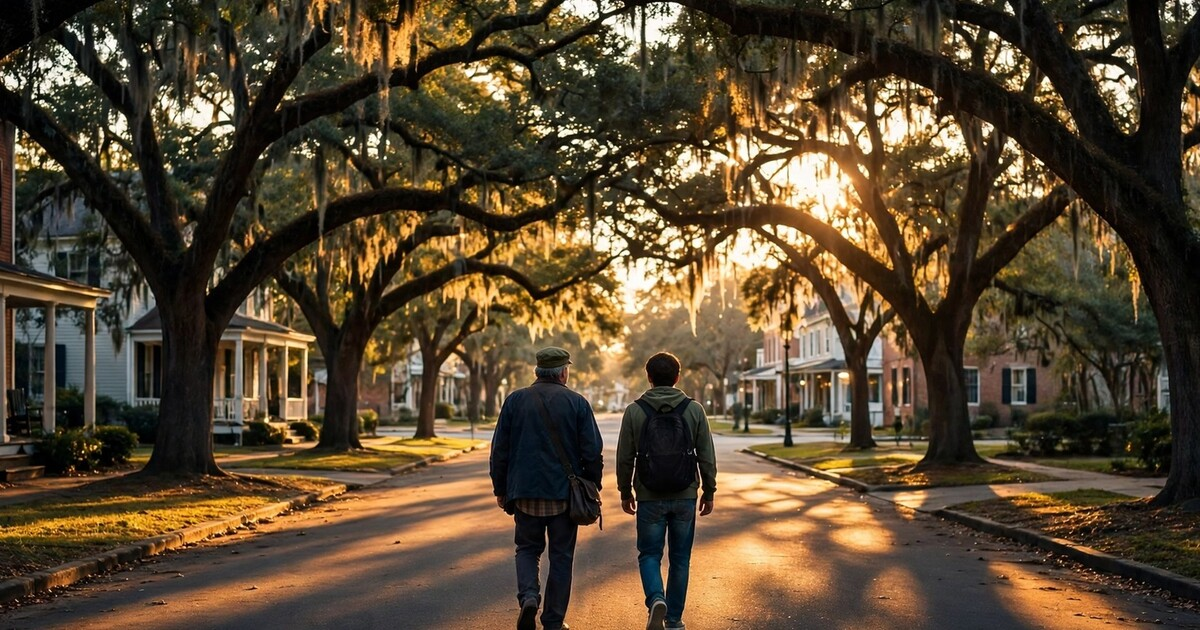
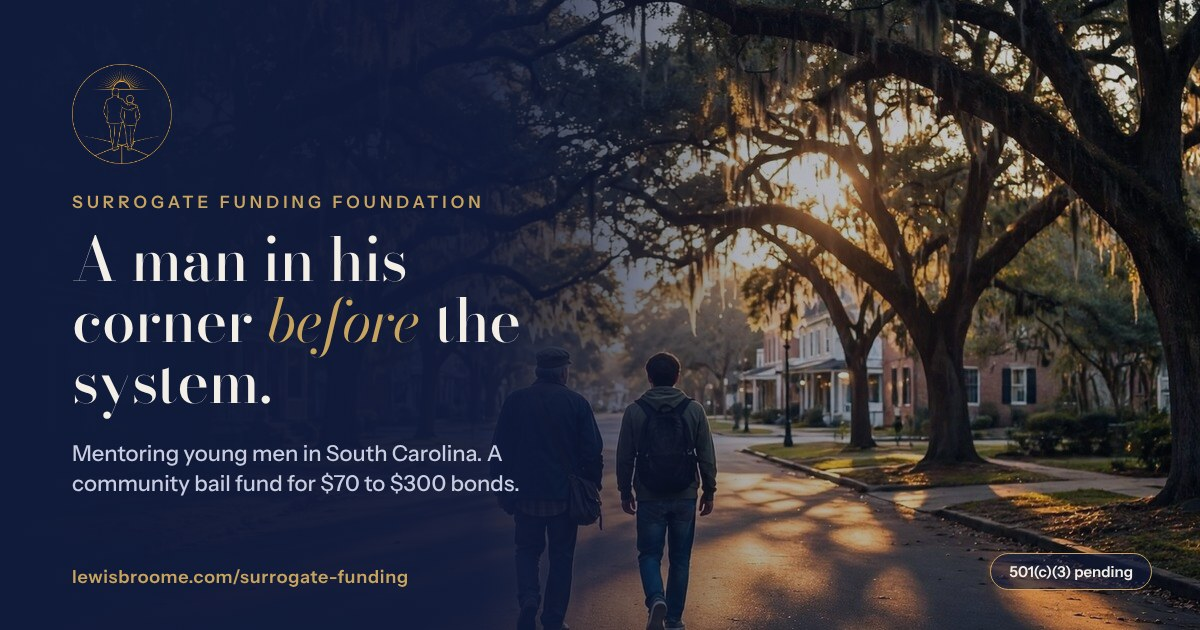
Surrogate Funding: unique 1200x630 share thumbnail per page, full og/twitter image tags, IndexNow key
Claude-Session: https://claude.ai/code/session_015JXEzZA8h7XeBSZWfpUPpu

diff --git a/surrogate-funding/our-story.html b/surrogate-funding/our-story.html
@@ -12,7 +12,15 @@
 <meta property="og:title" content="Wounded in the House of a Friend: Our Founder's Story | Surrogate Funding Foundation">
 <meta property="og:description" content="Lewis Broome came up in the projects, built a house at 21, and learned betrayal the hard way. He started Surrogate Funding so young men learn it from a mentor, not a cell.">
 <meta property="og:url" content="https://www.lewisbroome.com/surrogate-funding/our-story">
-<meta property="og:image" content="https://www.lewisbroome.com/surrogate-funding/og.jpg">
+<meta property="og:image" content="https://www.lewisbroome.com/surrogate-funding/og/our-story.jpg">
+<meta property="og:image:secure_url" content="https://www.lewisbroome.com/surrogate-funding/og/our-story.jpg">
+<meta property="og:image:type" content="image/jpeg">
+<meta property="og:image:width" content="1200">
+<meta property="og:image:height" content="630">
+<meta property="og:image:alt" content="Wounded in the House of a Friend: Our Founder's Story | Surrogate Funding Foundation">
+<meta name="twitter:image" content="https://www.lewisbroome.com/surrogate-funding/og/our-story.jpg">
+<meta name="twitter:title" content="Wounded in the House of a Friend: Our Founder's Story | Surrogate Funding Foundation">
+<meta name="twitter:description" content="Lewis Broome came up in the projects, built a house at 21, and learned betrayal the hard way. He started Surrogate Funding so young men learn it from a mentor, not a cell.">
 <meta name="twitter:card" content="summary_large_image">
 <meta name="claude:viewport-fit-sides" content="cover">
 <link rel="icon" type="image/png" sizes="32x32" href="/surrogate-funding/media/favicon-32.png">

diff --git a/surrogate-funding/bail-fund.html b/surrogate-funding/bail-fund.html
@@ -12,7 +12,15 @@
 <meta property="og:title" content="Community Bail Fund for $70 to $300 Bonds | Surrogate Funding Foundation">
 <meta property="og:description" content="Some people sit in jail for months over a $70 bond. Our community bail fund posts small bonds for people held only because they cannot pay, and refunded bail brings the next person home.">
 <meta property="og:url" content="https://www.lewisbroome.com/surrogate-funding/bail-fund">
-<meta property="og:image" content="https://www.lewisbroome.com/surrogate-funding/og.jpg">
+<meta property="og:image" content="https://www.lewisbroome.com/surrogate-funding/og/bail-fund.jpg">
+<meta property="og:image:secure_url" content="https://www.lewisbroome.com/surrogate-funding/og/bail-fund.jpg">
+<meta property="og:image:type" content="image/jpeg">
+<meta property="og:image:width" content="1200">
+<meta property="og:image:height" content="630">
+<meta property="og:image:alt" content="Community Bail Fund for $70 to $300 Bonds | Surrogate Funding Foundation">
+<meta name="twitter:image" content="https://www.lewisbroome.com/surrogate-funding/og/bail-fund.jpg">
+<meta name="twitter:title" content="Community Bail Fund for $70 to $300 Bonds | Surrogate Funding Foundation">
+<meta name="twitter:description" content="Some people sit in jail for months over a $70 bond. Our community bail fund posts small bonds for people held only because they cannot pay, and refunded bail brings the next person home.">
 <meta name="twitter:card" content="summary_large_image">
 <meta name="claude:viewport-fit-sides" content="cover">
 <link rel="icon" type="image/png" sizes="32x32" href="/surrogate-funding/media/favicon-32.png">

diff --git a/surrogate-funding/request-help.html b/surrogate-funding/request-help.html
@@ -12,7 +12,15 @@
 <meta property="og:title" content="Request Bail Help for a Small Bond | Surrogate Funding Foundation">
 <meta property="og:description" content="Ask Surrogate Funding Foundation for help with a small bond on a non-violent charge. For the person held, or a family member or friend on their behalf. It is free.">
 <meta property="og:url" content="https://www.lewisbroome.com/surrogate-funding/request-help">
-<meta property="og:image" content="https://www.lewisbroome.com/surrogate-funding/og.jpg">
+<meta property="og:image" content="https://www.lewisbroome.com/surrogate-funding/og/request-help.jpg">
+<meta property="og:image:secure_url" content="https://www.lewisbroome.com/surrogate-funding/og/request-help.jpg">
+<meta property="og:image:type" content="image/jpeg">
+<meta property="og:image:width" content="1200">
+<meta property="og:image:height" content="630">
+<meta property="og:image:alt" content="Request Bail Help for a Small Bond | Surrogate Funding Foundation">
+<meta name="twitter:image" content="https://www.lewisbroome.com/surrogate-funding/og/request-help.jpg">
+<meta name="twitter:title" content="Request Bail Help for a Small Bond | Surrogate Funding Foundation">
+<meta name="twitter:description" content="Ask Surrogate Funding Foundation for help with a small bond on a non-violent charge. For the person held, or a family member or friend on their behalf. It is free.">
 <meta name="twitter:card" content="summary_large_image">
 <meta name="claude:viewport-fit-sides" content="cover">
 <link rel="icon" type="image/png" sizes="32x32" href="/surrogate-funding/media/favicon-32.png">

diff --git a/surrogate-funding/programs.html b/surrogate-funding/programs.html
@@ -12,7 +12,15 @@
 <meta property="og:title" content="Crossroads Mentoring Circle and Programs | Surrogate Funding Foundation">
 <meta property="og:description" content="The Crossroads mentoring circle, one-on-one mentors for a year, money and work skills, the community bail fund, and the Loud and Right livestream.">
 <meta property="og:url" content="https://www.lewisbroome.com/surrogate-funding/programs">
-<meta property="og:image" content="https://www.lewisbroome.com/surrogate-funding/og.jpg">
+<meta property="og:image" content="https://www.lewisbroome.com/surrogate-funding/og/programs.jpg">
+<meta property="og:image:secure_url" content="https://www.lewisbroome.com/surrogate-funding/og/programs.jpg">
+<meta property="og:image:type" content="image/jpeg">
+<meta property="og:image:width" content="1200">
+<meta property="og:image:height" content="630">
+<meta property="og:image:alt" content="Crossroads Mentoring Circle and Programs | Surrogate Funding Foundation">
+<meta name="twitter:image" content="https://www.lewisbroome.com/surrogate-funding/og/programs.jpg">
+<meta name="twitter:title" content="Crossroads Mentoring Circle and Programs | Surrogate Funding Foundation">
+<meta name="twitter:description" content="The Crossroads mentoring circle, one-on-one mentors for a year, money and work skills, the community bail fund, and the Loud and Right livestream.">
 <meta name="twitter:card" content="summary_large_image">
 <meta name="claude:viewport-fit-sides" content="cover">
 <link rel="icon" type="image/png" sizes="32x32" href="/surrogate-funding/media/favicon-32.png">

diff --git a/surrogate-funding/mission.html b/surrogate-funding/mission.html
@@ -12,7 +12,15 @@
 <meta property="og:title" content="Our Mission and Four Pillars | Surrogate Funding Foundation">
 <meta property="og:description" content="We stand at the crossroads for young men in South Carolina: mentoring in faith, family, finances, and order, and bringing people home from jail over small bonds.">
 <meta property="og:url" content="https://www.lewisbroome.com/surrogate-funding/mission">
-<meta property="og:image" content="https://www.lewisbroome.com/surrogate-funding/og.jpg">
+<meta property="og:image" content="https://www.lewisbroome.com/surrogate-funding/og/mission.jpg">
+<meta property="og:image:secure_url" content="https://www.lewisbroome.com/surrogate-funding/og/mission.jpg">
+<meta property="og:image:type" content="image/jpeg">
+<meta property="og:image:width" content="1200">
+<meta property="og:image:height" content="630">
+<meta property="og:image:alt" content="Our Mission and Four Pillars | Surrogate Funding Foundation">
+<meta name="twitter:image" content="https://www.lewisbroome.com/surrogate-funding/og/mission.jpg">
+<meta name="twitter:title" content="Our Mission and Four Pillars | Surrogate Funding Foundation">
+<meta name="twitter:description" content="We stand at the crossroads for young men in South Carolina: mentoring in faith, family, finances, and order, and bringing people home from jail over small bonds.">
 <meta name="twitter:card" content="summary_large_image">
 <meta name="claude:viewport-fit-sides" content="cover">
 <link rel="icon" type="image/png" sizes="32x32" href="/surrogate-funding/media/favicon-32.png">

diff --git a/surrogate-funding/reach-out.html b/surrogate-funding/reach-out.html
@@ -12,7 +12,15 @@
 <meta property="og:title" content="Reach Out: Someone in Your Corner | Surrogate Funding Foundation">
 <meta property="og:description" content="For young men in South Carolina who are struggling and want someone in their corner. Not a crisis line: call or text 988 if you need help right now.">
 <meta property="og:url" content="https://www.lewisbroome.com/surrogate-funding/reach-out">
-<meta property="og:image" content="https://www.lewisbroome.com/surrogate-funding/og.jpg">
+<meta property="og:image" content="https://www.lewisbroome.com/surrogate-funding/og/reach-out.jpg">
+<meta property="og:image:secure_url" content="https://www.lewisbroome.com/surrogate-funding/og/reach-out.jpg">
+<meta property="og:image:type" content="image/jpeg">
+<meta property="og:image:width" content="1200">
+<meta property="og:image:height" content="630">
+<meta property="og:image:alt" content="Reach Out: Someone in Your Corner | Surrogate Funding Foundation">
+<meta name="twitter:image" content="https://www.lewisbroome.com/surrogate-funding/og/reach-out.jpg">
+<meta name="twitter:title" content="Reach Out: Someone in Your Corner | Surrogate Funding Foundation">
+<meta name="twitter:description" content="For young men in South Carolina who are struggling and want someone in their corner. Not a crisis line: call or text 988 if you need help right now.">
 <meta name="twitter:card" content="summary_large_image">
 <meta name="claude:viewport-fit-sides" content="cover">
 <link rel="icon" type="image/png" sizes="32x32" href="/surrogate-funding/media/favicon-32.png">

diff --git a/surrogate-funding/faq.html b/surrogate-funding/faq.html
@@ -12,7 +12,15 @@
 <meta property="og:title" content="Questions and Answers | Surrogate Funding Foundation">
 <meta property="og:description" content="Does bail help cost anything? Who is eligible? How does a young man join the Crossroads circle? Are gifts tax-deductible? Straight answers from Surrogate Funding Foundation.">
 <meta property="og:url" content="https://www.lewisbroome.com/surrogate-funding/faq">
-<meta property="og:image" content="https://www.lewisbroome.com/surrogate-funding/og.jpg">
+<meta property="og:image" content="https://www.lewisbroome.com/surrogate-funding/og/faq.jpg">
+<meta property="og:image:secure_url" content="https://www.lewisbroome.com/surrogate-funding/og/faq.jpg">
+<meta property="og:image:type" content="image/jpeg">
+<meta property="og:image:width" content="1200">
+<meta property="og:image:height" content="630">
+<meta property="og:image:alt" content="Questions and Answers | Surrogate Funding Foundation">
+<meta name="twitter:image" content="https://www.lewisbroome.com/surrogate-funding/og/faq.jpg">
+<meta name="twitter:title" content="Questions and Answers | Surrogate Funding Foundation">
+<meta name="twitter:description" content="Does bail help cost anything? Who is eligible? How does a young man join the Crossroads circle? Are gifts tax-deductible? Straight answers from Surrogate Funding Foundation.">
 <meta name="twitter:card" content="summary_large_image">
 <meta name="claude:viewport-fit-sides" content="cover">
 <link rel="icon" type="image/png" sizes="32x32" href="/surrogate-funding/media/favicon-32.png">

diff --git a/surrogate-funding/road-to-launch.html b/surrogate-funding/road-to-launch.html
@@ -12,7 +12,15 @@
 <meta property="og:title" content="Road to Launch and 501(c)(3) Status | Surrogate Funding Foundation">
 <meta property="og:description" content="Every step of building Surrogate Funding Foundation, in order: what is done, what is under way, and our pending 501(c)(3) status.">
 <meta property="og:url" content="https://www.lewisbroome.com/surrogate-funding/road-to-launch">
-<meta property="og:image" content="https://www.lewisbroome.com/surrogate-funding/og.jpg">
+<meta property="og:image" content="https://www.lewisbroome.com/surrogate-funding/og/road-to-launch.jpg">
+<meta property="og:image:secure_url" content="https://www.lewisbroome.com/surrogate-funding/og/road-to-launch.jpg">
+<meta property="og:image:type" content="image/jpeg">
+<meta property="og:image:width" content="1200">
+<meta property="og:image:height" content="630">
+<meta property="og:image:alt" content="Road to Launch and 501(c)(3) Status | Surrogate Funding Foundation">
+<meta name="twitter:image" content="https://www.lewisbroome.com/surrogate-funding/og/road-to-launch.jpg">
+<meta name="twitter:title" content="Road to Launch and 501(c)(3) Status | Surrogate Funding Foundation">
+<meta name="twitter:description" content="Every step of building Surrogate Funding Foundation, in order: what is done, what is under way, and our pending 501(c)(3) status.">
 <meta name="twitter:card" content="summary_large_image">
 <meta name="claude:viewport-fit-sides" content="cover">
 <link rel="icon" type="image/png" sizes="32x32" href="/surrogate-funding/media/favicon-32.png">

diff --git a/surrogate-funding/serve.html b/surrogate-funding/serve.html
@@ -12,7 +12,15 @@
 <meta property="og:title" content="Mentor a Young Man in South Carolina | Surrogate Funding Foundation">
 <meta property="og:description" content="Retired military and men who have walked the road: mentor a young man, lead a circle session, host a circle, or join our founding board.">
 <meta property="og:url" content="https://www.lewisbroome.com/surrogate-funding/serve">
-<meta property="og:image" content="https://www.lewisbroome.com/surrogate-funding/og.jpg">
+<meta property="og:image" content="https://www.lewisbroome.com/surrogate-funding/og/serve.jpg">
+<meta property="og:image:secure_url" content="https://www.lewisbroome.com/surrogate-funding/og/serve.jpg">
+<meta property="og:image:type" content="image/jpeg">
+<meta property="og:image:width" content="1200">
+<meta property="og:image:height" content="630">
+<meta property="og:image:alt" content="Mentor a Young Man in South Carolina | Surrogate Funding Foundation">
+<meta name="twitter:image" content="https://www.lewisbroome.com/surrogate-funding/og/serve.jpg">
+<meta name="twitter:title" content="Mentor a Young Man in South Carolina | Surrogate Funding Foundation">
+<meta name="twitter:description" content="Retired military and men who have walked the road: mentor a young man, lead a circle session, host a circle, or join our founding board.">
 <meta name="twitter:card" content="summary_large_image">
 <meta name="claude:viewport-fit-sides" content="cover">
 <link rel="icon" type="image/png" sizes="32x32" href="/surrogate-funding/media/favicon-32.png">

diff --git a/surrogate-funding/give.html b/surrogate-funding/give.html
@@ -12,7 +12,15 @@
 <meta property="og:title" content="Make a Founding Gift | Surrogate Funding Foundation">
 <meta property="og:description" content="Give to Surrogate Funding Foundation and see exactly what your gift does. Secure checkout by Square. 501(c)(3) status pending.">
 <meta property="og:url" content="https://www.lewisbroome.com/surrogate-funding/give">
-<meta property="og:image" content="https://www.lewisbroome.com/surrogate-funding/og.jpg">
+<meta property="og:image" content="https://www.lewisbroome.com/surrogate-funding/og/give.jpg">
+<meta property="og:image:secure_url" content="https://www.lewisbroome.com/surrogate-funding/og/give.jpg">
+<meta property="og:image:type" content="image/jpeg">
+<meta property="og:image:width" content="1200">
+<meta property="og:image:height" content="630">
+<meta property="og:image:alt" content="Make a Founding Gift | Surrogate Funding Foundation">
+<meta name="twitter:image" content="https://www.lewisbroome.com/surrogate-funding/og/give.jpg">
+<meta name="twitter:title" content="Make a Founding Gift | Surrogate Funding Foundation">
+<meta name="twitter:description" content="Give to Surrogate Funding Foundation and see exactly what your gift does. Secure checkout by Square. 501(c)(3) status pending.">
 <meta name="twitter:card" content="summary_large_image">
 <meta name="claude:viewport-fit-sides" content="cover">
 <link rel="icon" type="image/png" sizes="32x32" href="/surrogate-funding/media/favicon-32.png">

diff --git a/surrogate-funding.html b/surrogate-funding.html
@@ -13,6 +13,14 @@
 <meta property="og:description" content="Surrogate Funding Foundation mentors boys and young men in Richland County and the Midlands so they never see the inside of a cell, and runs a small community bail fund for people held on $70 to $300 bonds.">
 <meta property="og:url" content="https://www.lewisbroome.com/surrogate-funding">
 <meta property="og:image" content="https://www.lewisbroome.com/surrogate-funding/og.jpg">
+<meta property="og:image:secure_url" content="https://www.lewisbroome.com/surrogate-funding/og.jpg">
+<meta property="og:image:type" content="image/jpeg">
+<meta property="og:image:width" content="1200">
+<meta property="og:image:height" content="630">
+<meta property="og:image:alt" content="Surrogate Funding Foundation | Mentoring Young Men in South Carolina">
+<meta name="twitter:image" content="https://www.lewisbroome.com/surrogate-funding/og.jpg">
+<meta name="twitter:title" content="Surrogate Funding Foundation | Mentoring Young Men in South Carolina">
+<meta name="twitter:description" content="Surrogate Funding Foundation mentors boys and young men in Richland County and the Midlands so they never see the inside of a cell, and runs a small community bail fund for people held on $70 to $300 bonds.">
 <meta name="twitter:card" content="summary_large_image">
 <meta name="claude:viewport-fit-sides" content="cover">
 <link rel="icon" type="image/png" sizes="32x32" href="/surrogate-funding/media/favicon-32.png">

diff --git a/scripts/make-surrogate.py b/scripts/make-surrogate.py
@@ -149,8 +149,12 @@ def build(i, page):
     if slug in FORMS:
         extra_head = '<meta name="referrer" content="no-referrer">\n<style>\n' + open(os.path.join(SRC, "sf-forms.css"), encoding="utf-8").read() + '</style>\n'
         body += '\n<script>\n' + open(os.path.join(SRC, "sf-forms.js"), encoding="utf-8").read() + '</script>'
-    og_img = BASE + "/og.jpg" if os.path.exists(os.path.join(ROOT, "surrogate-funding", "og.jpg")) else ""
-    img_tags = (f'<meta property="og:image" content="{og_img}">\n' if og_img else "")
+    # each page gets its own share card when surrogate-funding/og/<slug>.jpg exists; home uses og.jpg
+    if slug and os.path.exists(os.path.join(ROOT, "surrogate-funding", "og", slug + ".jpg")):
+        og_img = BASE + "/og/" + slug + ".jpg"
+    else:
+        og_img = BASE + "/og.jpg" if os.path.exists(os.path.join(ROOT, "surrogate-funding", "og.jpg")) else ""
+    img_tags = (f'<meta property="og:image" content="{og_img}">\n<meta property="og:image:secure_url" content="{og_img}">\n<meta property="og:image:type" content="image/jpeg">\n<meta property="og:image:width" content="1200">\n<meta property="og:image:height" content="630">\n<meta property="og:image:alt" content="{title}">\n<meta name="twitter:image" content="{og_img}">\n<meta name="twitter:title" content="{title}">\n<meta name="twitter:description" content="{desc}">\n' if og_img else "")
     html = f'''<!doctype html>
 <html lang="en">
 <head>
